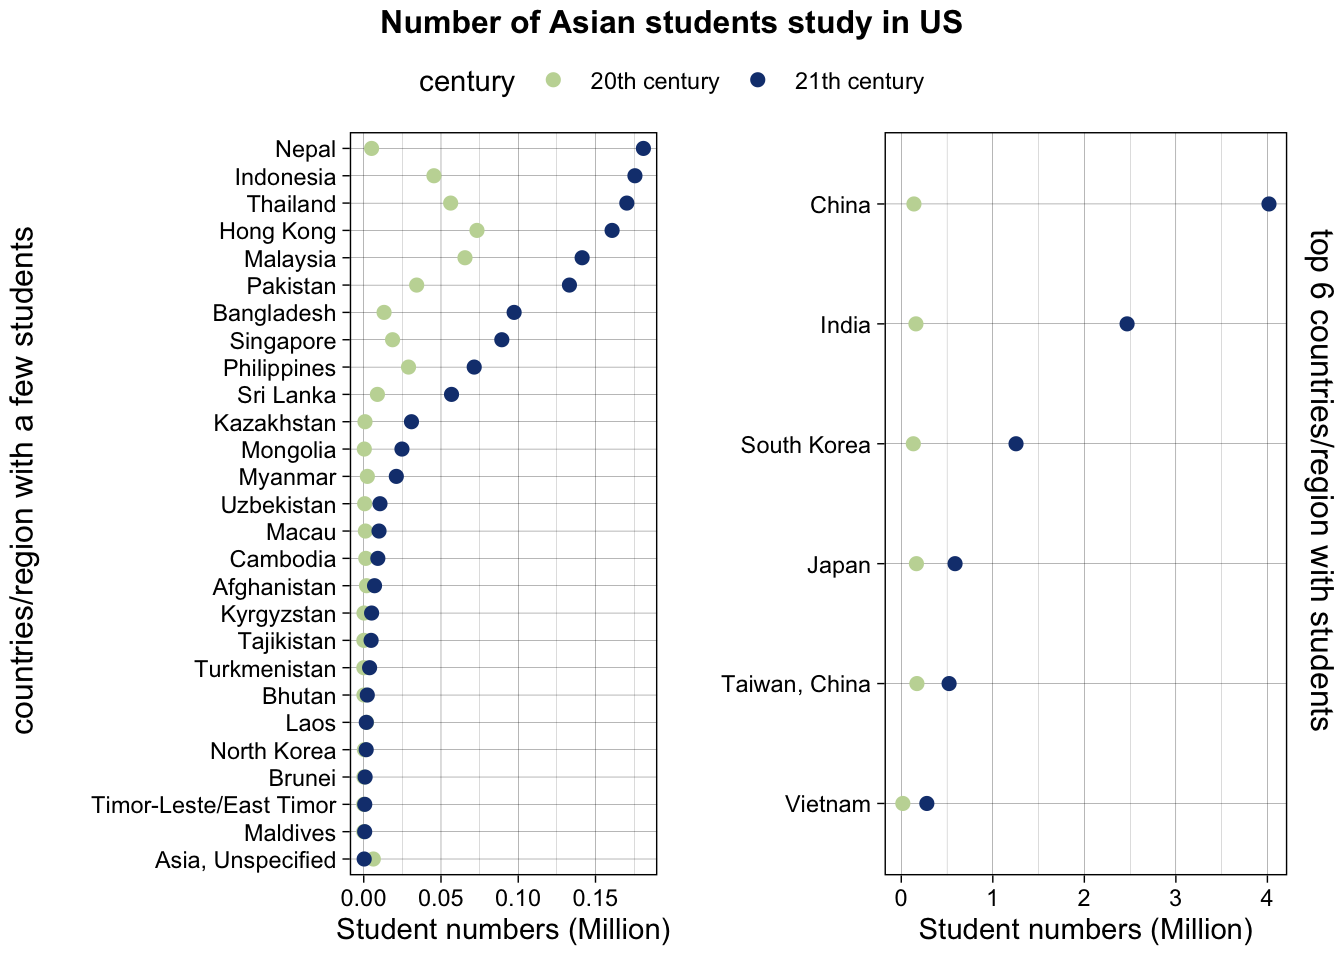
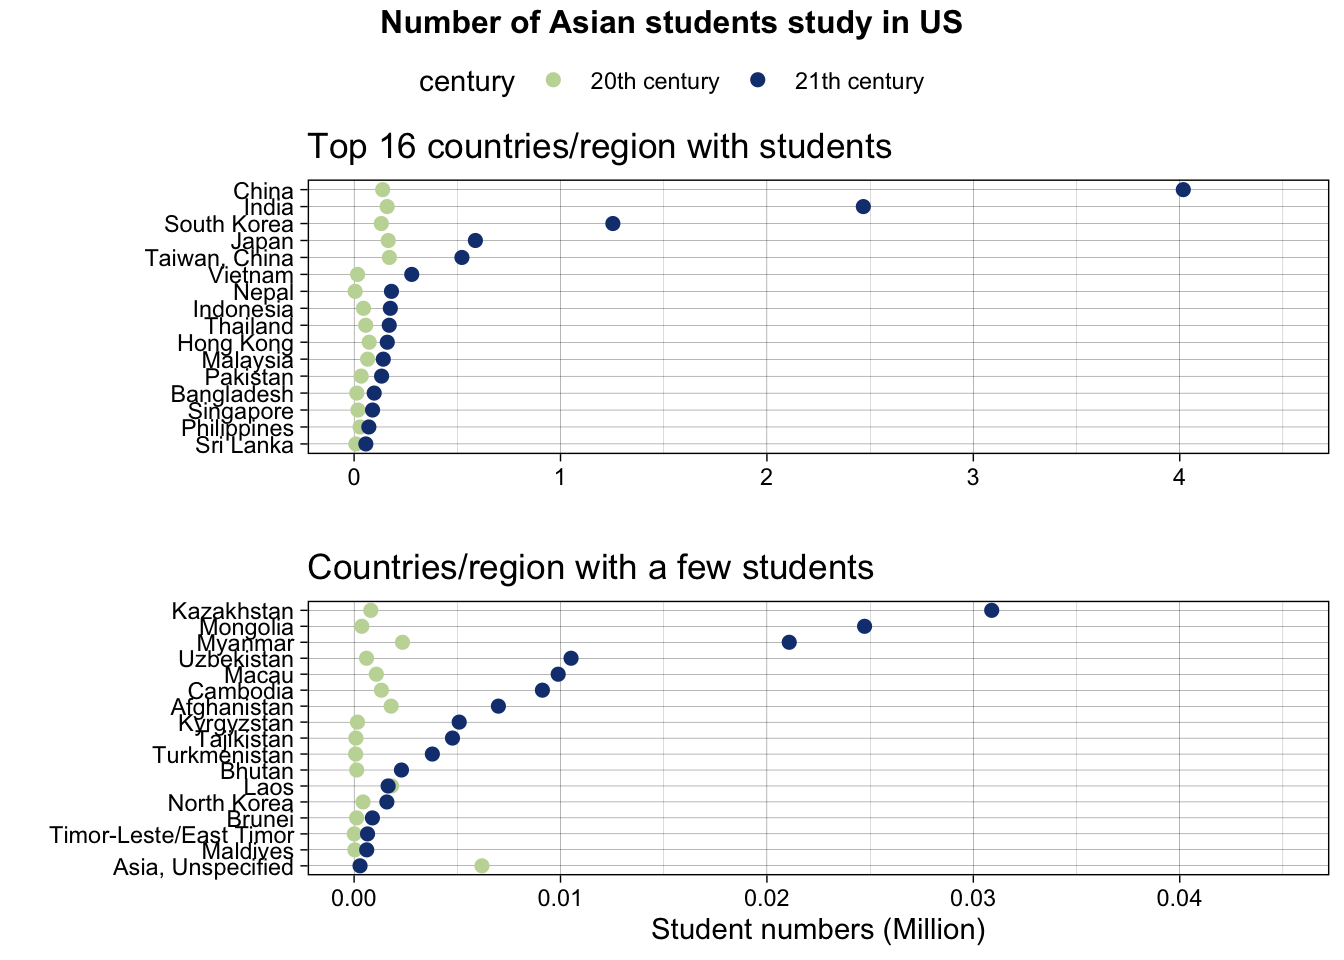
Update

Changed region(s): [[0.0312, 0.125, 1.0, 1.0], [0.0, 0.2188, 0.0312, 0.7812]]

diff --git a/docs/results.html b/docs/results.html
@@ -275,39 +275,40 @@ code span.wa { color: #60a0b0; font-weight: bold; font-style: italic; } /* Warni
 <span id="cb4-8"><a href="results.html#cb4-8" aria-hidden="true" tabindex="-1"></a>top5.asia <span class="ot">&lt;-</span> tidysum.asia <span class="sc">%&gt;%</span></span>
 <span id="cb4-9"><a href="results.html#cb4-9" aria-hidden="true" tabindex="-1"></a>  <span class="fu">group_by</span>(<span class="st">`</span><span class="at">Place of Origin</span><span class="st">`</span>) <span class="sc">%&gt;%</span></span>
 <span id="cb4-10"><a href="results.html#cb4-10" aria-hidden="true" tabindex="-1"></a>  <span class="fu">summarise</span>(<span class="at">total_num =</span> <span class="fu">sum</span>(student_numbers)) <span class="sc">%&gt;%</span></span>
-<span id="cb4-11"><a href="results.html#cb4-11" aria-hidden="true" tabindex="-1"></a>  <span class="fu">slice_max</span>(total_num, <span class="at">n =</span> <span class="dv">6</span>) <span class="sc">%&gt;%</span></span>
+<span id="cb4-11"><a href="results.html#cb4-11" aria-hidden="true" tabindex="-1"></a>  <span class="fu">slice_max</span>(total_num, <span class="at">n =</span> <span class="dv">16</span>) <span class="sc">%&gt;%</span></span>
 <span id="cb4-12"><a href="results.html#cb4-12" aria-hidden="true" tabindex="-1"></a>  <span class="fu">select</span>(<span class="st">`</span><span class="at">Place of Origin</span><span class="st">`</span>)</span>
 <span id="cb4-13"><a href="results.html#cb4-13" aria-hidden="true" tabindex="-1"></a></span>
 <span id="cb4-14"><a href="results.html#cb4-14" aria-hidden="true" tabindex="-1"></a></span>
-<span id="cb4-15"><a href="results.html#cb4-15" aria-hidden="true" tabindex="-1"></a>p.top6 <span class="ot">&lt;-</span> tidysum.asia <span class="sc">%&gt;%</span></span>
+<span id="cb4-15"><a href="results.html#cb4-15" aria-hidden="true" tabindex="-1"></a>p.top16 <span class="ot">&lt;-</span> tidysum.asia <span class="sc">%&gt;%</span></span>
 <span id="cb4-16"><a href="results.html#cb4-16" aria-hidden="true" tabindex="-1"></a>  <span class="fu">filter</span>(<span class="st">`</span><span class="at">Place of Origin</span><span class="st">`</span> <span class="sc">%in%</span> top5.asia<span class="sc">$</span><span class="st">`</span><span class="at">Place of Origin</span><span class="st">`</span>) <span class="sc">%&gt;%</span></span>
 <span id="cb4-17"><a href="results.html#cb4-17" aria-hidden="true" tabindex="-1"></a>  <span class="fu">ggplot</span>(<span class="fu">aes</span>(<span class="at">x =</span> student_numbers, </span>
 <span id="cb4-18"><a href="results.html#cb4-18" aria-hidden="true" tabindex="-1"></a>             <span class="at">y =</span> <span class="fu">fct_reorder2</span>(<span class="st">`</span><span class="at">Place of Origin</span><span class="st">`</span>, century <span class="sc">==</span> <span class="st">&quot;21th century&quot;</span>, student_numbers,</span>
 <span id="cb4-19"><a href="results.html#cb4-19" aria-hidden="true" tabindex="-1"></a>                              <span class="at">.desc =</span> <span class="cn">FALSE</span>), <span class="at">color =</span> century)) <span class="sc">+</span></span>
 <span id="cb4-20"><a href="results.html#cb4-20" aria-hidden="true" tabindex="-1"></a>  <span class="fu">geom_point</span>(<span class="at">size =</span> <span class="dv">2</span>) <span class="sc">+</span></span>
-<span id="cb4-21"><a href="results.html#cb4-21" aria-hidden="true" tabindex="-1"></a>  <span class="fu">ylab</span>(<span class="st">&quot;&quot;</span>) <span class="sc">+</span></span>
-<span id="cb4-22"><a href="results.html#cb4-22" aria-hidden="true" tabindex="-1"></a>  <span class="fu">xlab</span>(<span class="st">&quot;Student numbers (Million)&quot;</span>)<span class="sc">+</span></span>
-<span id="cb4-23"><a href="results.html#cb4-23" aria-hidden="true" tabindex="-1"></a>  <span class="fu">theme_linedraw</span>() <span class="sc">+</span></span>
-<span id="cb4-24"><a href="results.html#cb4-24" aria-hidden="true" tabindex="-1"></a>  <span class="fu">scale_color_manual</span>(<span class="at">values =</span> <span class="fu">c</span>(<span class="st">&quot;#C3D7A4&quot;</span>, <span class="st">&quot;#153E7E&quot;</span>))</span>
-<span id="cb4-25"><a href="results.html#cb4-25" aria-hidden="true" tabindex="-1"></a></span>
-<span id="cb4-26"><a href="results.html#cb4-26" aria-hidden="true" tabindex="-1"></a>p.other <span class="ot">&lt;-</span> tidysum.asia <span class="sc">%&gt;%</span></span>
-<span id="cb4-27"><a href="results.html#cb4-27" aria-hidden="true" tabindex="-1"></a>  <span class="fu">filter</span>(<span class="sc">!</span>(<span class="st">`</span><span class="at">Place of Origin</span><span class="st">`</span> <span class="sc">%in%</span> top5.asia<span class="sc">$</span><span class="st">`</span><span class="at">Place of Origin</span><span class="st">`</span>)) <span class="sc">%&gt;%</span></span>
-<span id="cb4-28"><a href="results.html#cb4-28" aria-hidden="true" tabindex="-1"></a>  <span class="fu">ggplot</span>(<span class="fu">aes</span>(<span class="at">x =</span> student_numbers, </span>
-<span id="cb4-29"><a href="results.html#cb4-29" aria-hidden="true" tabindex="-1"></a>             <span class="at">y =</span> <span class="fu">fct_reorder2</span>(<span class="st">`</span><span class="at">Place of Origin</span><span class="st">`</span>, century <span class="sc">==</span> <span class="st">&quot;21th century&quot;</span>, student_numbers,</span>
-<span id="cb4-30"><a href="results.html#cb4-30" aria-hidden="true" tabindex="-1"></a>                              <span class="at">.desc =</span> <span class="cn">FALSE</span>), <span class="at">color =</span> century)) <span class="sc">+</span></span>
-<span id="cb4-31"><a href="results.html#cb4-31" aria-hidden="true" tabindex="-1"></a>  <span class="fu">geom_point</span>(<span class="at">size =</span> <span class="dv">2</span>) <span class="sc">+</span></span>
-<span id="cb4-32"><a href="results.html#cb4-32" aria-hidden="true" tabindex="-1"></a>  <span class="fu">ylab</span>(<span class="st">&quot;&quot;</span>) <span class="sc">+</span></span>
-<span id="cb4-33"><a href="results.html#cb4-33" aria-hidden="true" tabindex="-1"></a>  <span class="fu">xlab</span>(<span class="st">&quot;Student numbers (Million)&quot;</span>)<span class="sc">+</span></span>
-<span id="cb4-34"><a href="results.html#cb4-34" aria-hidden="true" tabindex="-1"></a>  <span class="fu">theme_linedraw</span>() <span class="sc">+</span></span>
-<span id="cb4-35"><a href="results.html#cb4-35" aria-hidden="true" tabindex="-1"></a>  <span class="fu">scale_color_manual</span>(<span class="at">values =</span> <span class="fu">c</span>(<span class="st">&quot;#C3D7A4&quot;</span>, <span class="st">&quot;#153E7E&quot;</span>))</span>
-<span id="cb4-36"><a href="results.html#cb4-36" aria-hidden="true" tabindex="-1"></a></span>
-<span id="cb4-37"><a href="results.html#cb4-37" aria-hidden="true" tabindex="-1"></a>pt2 <span class="ot">&lt;-</span> <span class="fu">ggarrange</span>(p.other, p.top6, <span class="at">ncol=</span><span class="dv">2</span>, <span class="at">nrow=</span><span class="dv">1</span>, <span class="at">common.legend =</span> <span class="cn">TRUE</span>, <span class="at">legend=</span><span class="st">&quot;top&quot;</span>)</span>
+<span id="cb4-21"><a href="results.html#cb4-21" aria-hidden="true" tabindex="-1"></a>  <span class="fu">labs</span>(<span class="at">title =</span> <span class="st">&quot;Top 16 countries/region with students&quot;</span>) <span class="sc">+</span></span>
+<span id="cb4-22"><a href="results.html#cb4-22" aria-hidden="true" tabindex="-1"></a>  <span class="fu">xlab</span>(<span class="st">&quot;&quot;</span>)<span class="sc">+</span> <span class="fu">ylab</span>(<span class="st">&quot;&quot;</span>)<span class="sc">+</span></span>
+<span id="cb4-23"><a href="results.html#cb4-23" aria-hidden="true" tabindex="-1"></a>  <span class="fu">xlim</span>(<span class="dv">0</span>, <span class="fl">4.5</span>)<span class="sc">+</span></span>
+<span id="cb4-24"><a href="results.html#cb4-24" aria-hidden="true" tabindex="-1"></a>  <span class="fu">theme_linedraw</span>() <span class="sc">+</span></span>
+<span id="cb4-25"><a href="results.html#cb4-25" aria-hidden="true" tabindex="-1"></a>  <span class="fu">scale_color_manual</span>(<span class="at">values =</span> <span class="fu">c</span>(<span class="st">&quot;#C3D7A4&quot;</span>, <span class="st">&quot;#153E7E&quot;</span>))</span>
+<span id="cb4-26"><a href="results.html#cb4-26" aria-hidden="true" tabindex="-1"></a></span>
+<span id="cb4-27"><a href="results.html#cb4-27" aria-hidden="true" tabindex="-1"></a>p.other <span class="ot">&lt;-</span> tidysum.asia <span class="sc">%&gt;%</span></span>
+<span id="cb4-28"><a href="results.html#cb4-28" aria-hidden="true" tabindex="-1"></a>  <span class="fu">filter</span>(<span class="sc">!</span>(<span class="st">`</span><span class="at">Place of Origin</span><span class="st">`</span> <span class="sc">%in%</span> top5.asia<span class="sc">$</span><span class="st">`</span><span class="at">Place of Origin</span><span class="st">`</span>)) <span class="sc">%&gt;%</span></span>
+<span id="cb4-29"><a href="results.html#cb4-29" aria-hidden="true" tabindex="-1"></a>  <span class="fu">ggplot</span>(<span class="fu">aes</span>(<span class="at">x =</span> student_numbers, </span>
+<span id="cb4-30"><a href="results.html#cb4-30" aria-hidden="true" tabindex="-1"></a>             <span class="at">y =</span> <span class="fu">fct_reorder2</span>(<span class="st">`</span><span class="at">Place of Origin</span><span class="st">`</span>, century <span class="sc">==</span> <span class="st">&quot;21th century&quot;</span>, student_numbers,</span>
+<span id="cb4-31"><a href="results.html#cb4-31" aria-hidden="true" tabindex="-1"></a>                              <span class="at">.desc =</span> <span class="cn">FALSE</span>), <span class="at">color =</span> century)) <span class="sc">+</span></span>
+<span id="cb4-32"><a href="results.html#cb4-32" aria-hidden="true" tabindex="-1"></a>  <span class="fu">geom_point</span>(<span class="at">size =</span> <span class="dv">2</span>) <span class="sc">+</span></span>
+<span id="cb4-33"><a href="results.html#cb4-33" aria-hidden="true" tabindex="-1"></a>  <span class="fu">labs</span>(<span class="at">title =</span> <span class="st">&quot;Countries/region with a few students&quot;</span>) <span class="sc">+</span></span>
+<span id="cb4-34"><a href="results.html#cb4-34" aria-hidden="true" tabindex="-1"></a>  <span class="fu">xlab</span>(<span class="st">&quot;Student numbers (Million)&quot;</span>)<span class="sc">+</span> <span class="fu">ylab</span>(<span class="st">&quot;&quot;</span>)<span class="sc">+</span></span>
+<span id="cb4-35"><a href="results.html#cb4-35" aria-hidden="true" tabindex="-1"></a>  <span class="fu">xlim</span>(<span class="dv">0</span>, <span class="fl">0.045</span>)<span class="sc">+</span></span>
+<span id="cb4-36"><a href="results.html#cb4-36" aria-hidden="true" tabindex="-1"></a>  <span class="fu">theme_linedraw</span>() <span class="sc">+</span></span>
+<span id="cb4-37"><a href="results.html#cb4-37" aria-hidden="true" tabindex="-1"></a>  <span class="fu">scale_color_manual</span>(<span class="at">values =</span> <span class="fu">c</span>(<span class="st">&quot;#C3D7A4&quot;</span>, <span class="st">&quot;#153E7E&quot;</span>))</span>
 <span id="cb4-38"><a href="results.html#cb4-38" aria-hidden="true" tabindex="-1"></a></span>
-<span id="cb4-39"><a href="results.html#cb4-39" aria-hidden="true" tabindex="-1"></a><span class="fu">annotate_figure</span>(pt2, </span>
-<span id="cb4-40"><a href="results.html#cb4-40" aria-hidden="true" tabindex="-1"></a>                <span class="at">top =</span> <span class="fu">text_grob</span>(<span class="st">&quot;Number of Asian students study in US&quot;</span>, </span>
-<span id="cb4-41"><a href="results.html#cb4-41" aria-hidden="true" tabindex="-1"></a>                                <span class="at">face =</span> <span class="st">&quot;bold&quot;</span>, <span class="at">size =</span> <span class="dv">12</span>),</span>
-<span id="cb4-42"><a href="results.html#cb4-42" aria-hidden="true" tabindex="-1"></a>                <span class="at">right =</span> <span class="st">&quot;top 6 countries/region with students&quot;</span>,</span>
-<span id="cb4-43"><a href="results.html#cb4-43" aria-hidden="true" tabindex="-1"></a>                <span class="at">left =</span> <span class="st">&quot;countries/region with a few students&quot;</span>)</span></code></pre></div>
+<span id="cb4-39"><a href="results.html#cb4-39" aria-hidden="true" tabindex="-1"></a>pt2 <span class="ot">&lt;-</span> <span class="fu">ggarrange</span>(p.top16, p.other, <span class="at">ncol=</span><span class="dv">1</span>, <span class="at">nrow=</span><span class="dv">2</span>, <span class="at">common.legend =</span> <span class="cn">TRUE</span>, <span class="at">legend=</span><span class="st">&quot;top&quot;</span>,</span>
+<span id="cb4-40"><a href="results.html#cb4-40" aria-hidden="true" tabindex="-1"></a>                 <span class="at">align =</span> <span class="st">&quot;v&quot;</span>)</span>
+<span id="cb4-41"><a href="results.html#cb4-41" aria-hidden="true" tabindex="-1"></a></span>
+<span id="cb4-42"><a href="results.html#cb4-42" aria-hidden="true" tabindex="-1"></a><span class="fu">annotate_figure</span>(pt2, </span>
+<span id="cb4-43"><a href="results.html#cb4-43" aria-hidden="true" tabindex="-1"></a>                <span class="at">top =</span> <span class="fu">text_grob</span>(<span class="st">&quot;Number of Asian students study in US&quot;</span>, </span>
+<span id="cb4-44"><a href="results.html#cb4-44" aria-hidden="true" tabindex="-1"></a>                                <span class="at">face =</span> <span class="st">&quot;bold&quot;</span>, <span class="at">size =</span> <span class="dv">12</span>))</span></code></pre></div>
 <p><img src="finalproj_files/figure-html/unnamed-chunk-9-1.png" width="672" /></p>
 </div>
 </div>
